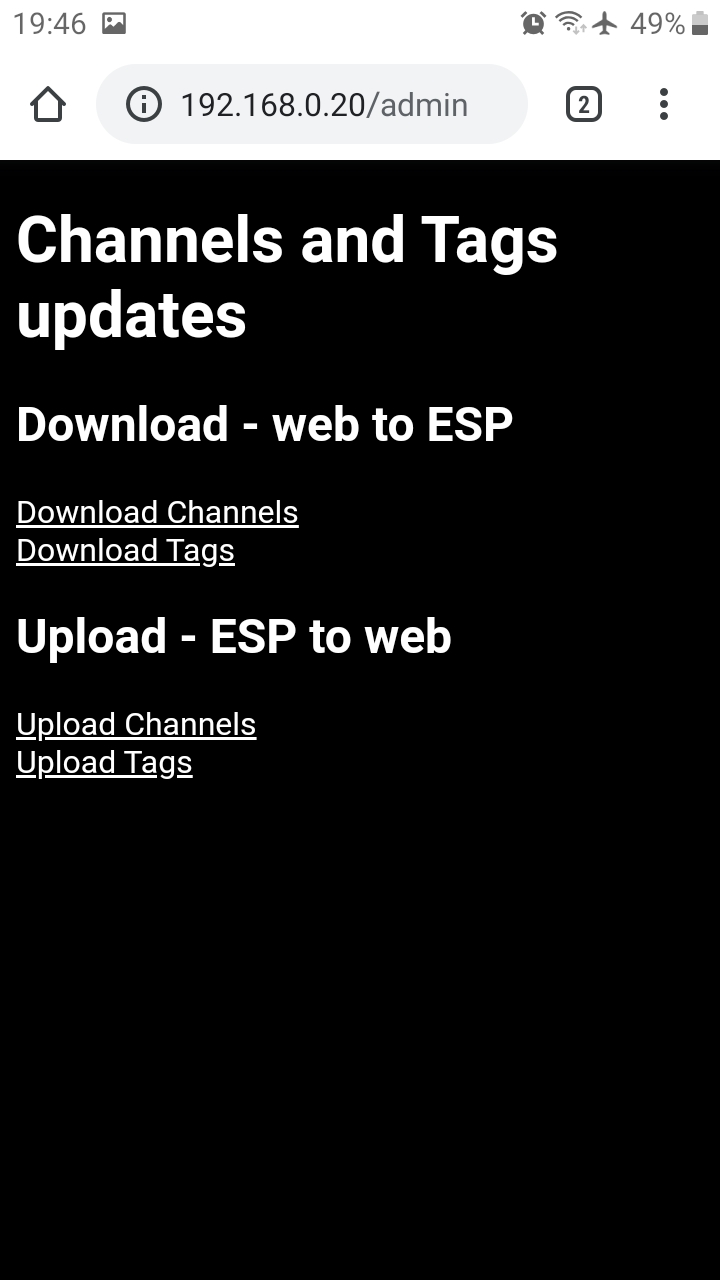
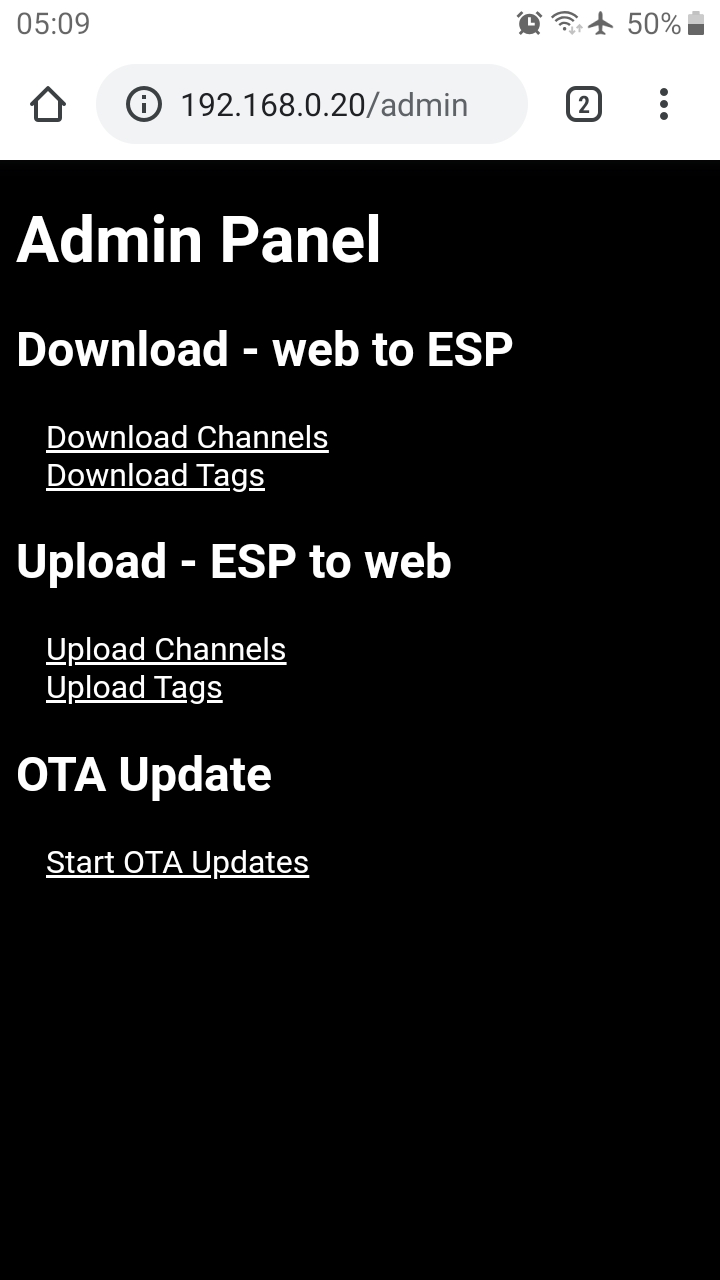
OTA updates: main.cpp, platformio.ini, admin.html Web app (script.js): double click doesn't change channel... ...It just shows the popup window for tag selection.

diff --git a/data/inc/script.js b/data/inc/script.js
@@ -3,6 +3,8 @@ function el(id) { return document.getElementById(id); }
 function setCurrentButtonColor(curBtn) {
     if (!curBtn.id.startsWith('ch'))
         return;
+    if (curBtn.id.endsWith('_sel'))
+        curBtn = curBtn.previousElementSibling;
     const btns = document.getElementById('main').getElementsByTagName('button');
     for (const btn of btns)
         btn.style.backgroundColor = '#000';
@@ -14,13 +16,15 @@ var setClickAll = true;
 function setClickHandler() {
     const butts = document.getElementsByTagName('button');
     for (var i = 0; i < butts.length; i++)
-        // if (setClickAll || !butts[i].id.startsWith('mode'))
         if (setClickAll || (!butts[i].id.startsWith('mode') && butts[i].parentNode.tagName != 'HEADER' && butts[i].parentNode.tagName != 'FOOTER'))
             butts[i].addEventListener('click', function () { setCurrentButtonColor(this); send(this.id); }, false);
     setClickAll = false;
 }
 
 function send(cmd) {
+    //T console.log('send: ' + cmd);
+    if (cmd == '')
+        return;
     if (cmd == 'onOff' && !confirm('Are you sure?'))
         return;
     if (cmd.endsWith('_sel'))
@@ -52,10 +56,23 @@ function send(cmd) {
             }
         }
     }
-    url = 'act?cmd=' + cmd;
-    var x = new XMLHttpRequest();
-    x.open('GET', url, true);
-    x.send(null);
+    const itv = cmd.startsWith('ch') && !cmd.endsWith('_sel') ? 333 : 0;
+    setTimeout(httpGet, itv, cmd);
+}
+
+// Komanda se salje veb serveru iz httpGet() samo ako je ovo 0.
+// Dblclick ovo postavlja na 2 da se sledeca dva poziva httpGet() neutralisala tako da samo izleti popup.
+var cancelSend = 0;
+
+function httpGet(cmd) {
+    if (cancelSend > 0)
+        cancelSend--;
+    else {
+        url = 'act?cmd=' + cmd;
+        var x = new XMLHttpRequest();
+        x.open('GET', url, true);
+        x.send(null);
+    }
 }
 
 const sepRows = '\n';
@@ -178,7 +195,7 @@ function displayChannels() {
         tagNames = TagsForChan(ch.number);
         const sel = loadSelectedChannels ? '<<' : '>>';
         const selDisabled = ch.isSelected && !loadSelectedChannels ? 'disabled' : '';
-        s += "<div> <button ondblclick='chId=this.id; openTagsPopup()' id='ch" + i + "' value='" + tagNames + "'>"
+        s += "<div> <button ondblclick='cancelSend=2; chId=this.id; openTagsPopup()' id='ch" + i + "' value='" + tagNames + "'>"
             + ch.name + "</button> <button id='ch" + i + "_sel' " + selDisabled + ">" + sel + "</button> </div>";
     }
     document.getElementById('main').innerHTML = s;

diff --git a/data/admin.html b/data/admin.html
@@ -16,20 +16,24 @@
 
         a {
             display: block;
+            margin-left: 15px;
         }
     </style>
 </head>
 
 <body>
-    <h1>Channels and Tags updates</h1>
+    <h1>Admin Panel</h1>
 
     <h2>Download - web to ESP</h2>
     <a href="/downloadCSV?fileName=channels.csv">Download Channels</a>
     <a href="/downloadCSV?fileName=tags.csv">Download Tags</a>
-    
+
     <h2>Upload - ESP to web</h2>
     <a href="/uploadCSV?fileName=channels.csv">Upload Channels</a>
     <a href="/uploadCSV?fileName=tags.csv">Upload Tags</a>
+
+    <h2>OTA Update</h2>
+    <a href="/otaUpdate">Start OTA Updates</a>
 </body>
 
 </html>

diff --git a/src/main.cpp b/src/main.cpp
@@ -3,6 +3,9 @@
 #include <WiFiServerBasics.h>
 ESP8266WebServer server(80);
 
+#include <ArduinoOTA.h>
+bool isOtaOn = false; // da li je OTA update u toku
+
 #include <IRremoteESP8266.h>
 #include <IRsend.h>
 IRsend irsend(D2);
@@ -95,6 +98,7 @@ void handleSetTags()
 // test json
 void handleTest()
 {
+  Serial.println("/test");
   server.send(200, "application/json", "{ 'app': 'ESP_IR_TV' }");
 }
 
@@ -231,6 +235,7 @@ void setup()
   server.on("/downloadCSV", []() { UpdateCSV::HandleDownloadCSV(server); });
   server.on("/uploadCSV", []() { UpdateCSV::HandleUploadCSV(server); });
   server.on("/admin", []() { HandleDataFile(server, "/admin.html", "text/html"); });
+  server.on("/otaUpdate", []() { server.send(200, "text/plain", "ESP is waiting for OTA updates..."); isOtaOn = true; ArduinoOTA.begin(); });
   server.on("/", []() { HandleDataFile(server, "/index.html", "text/html"); });
   server.on("/inc/style.css", []() { HandleDataFile(server, "/inc/style.css", "text/css"); });
   server.on("/inc/script.js", []() { HandleDataFile(server, "/inc/script.js", "text/javascript"); });
@@ -243,6 +248,10 @@ void setup()
 
 void loop()
 {
-  server.handleClient();
   delay(10);
+
+  if (isOtaOn)
+    ArduinoOTA.handle();
+  else
+    server.handleClient();
 }
